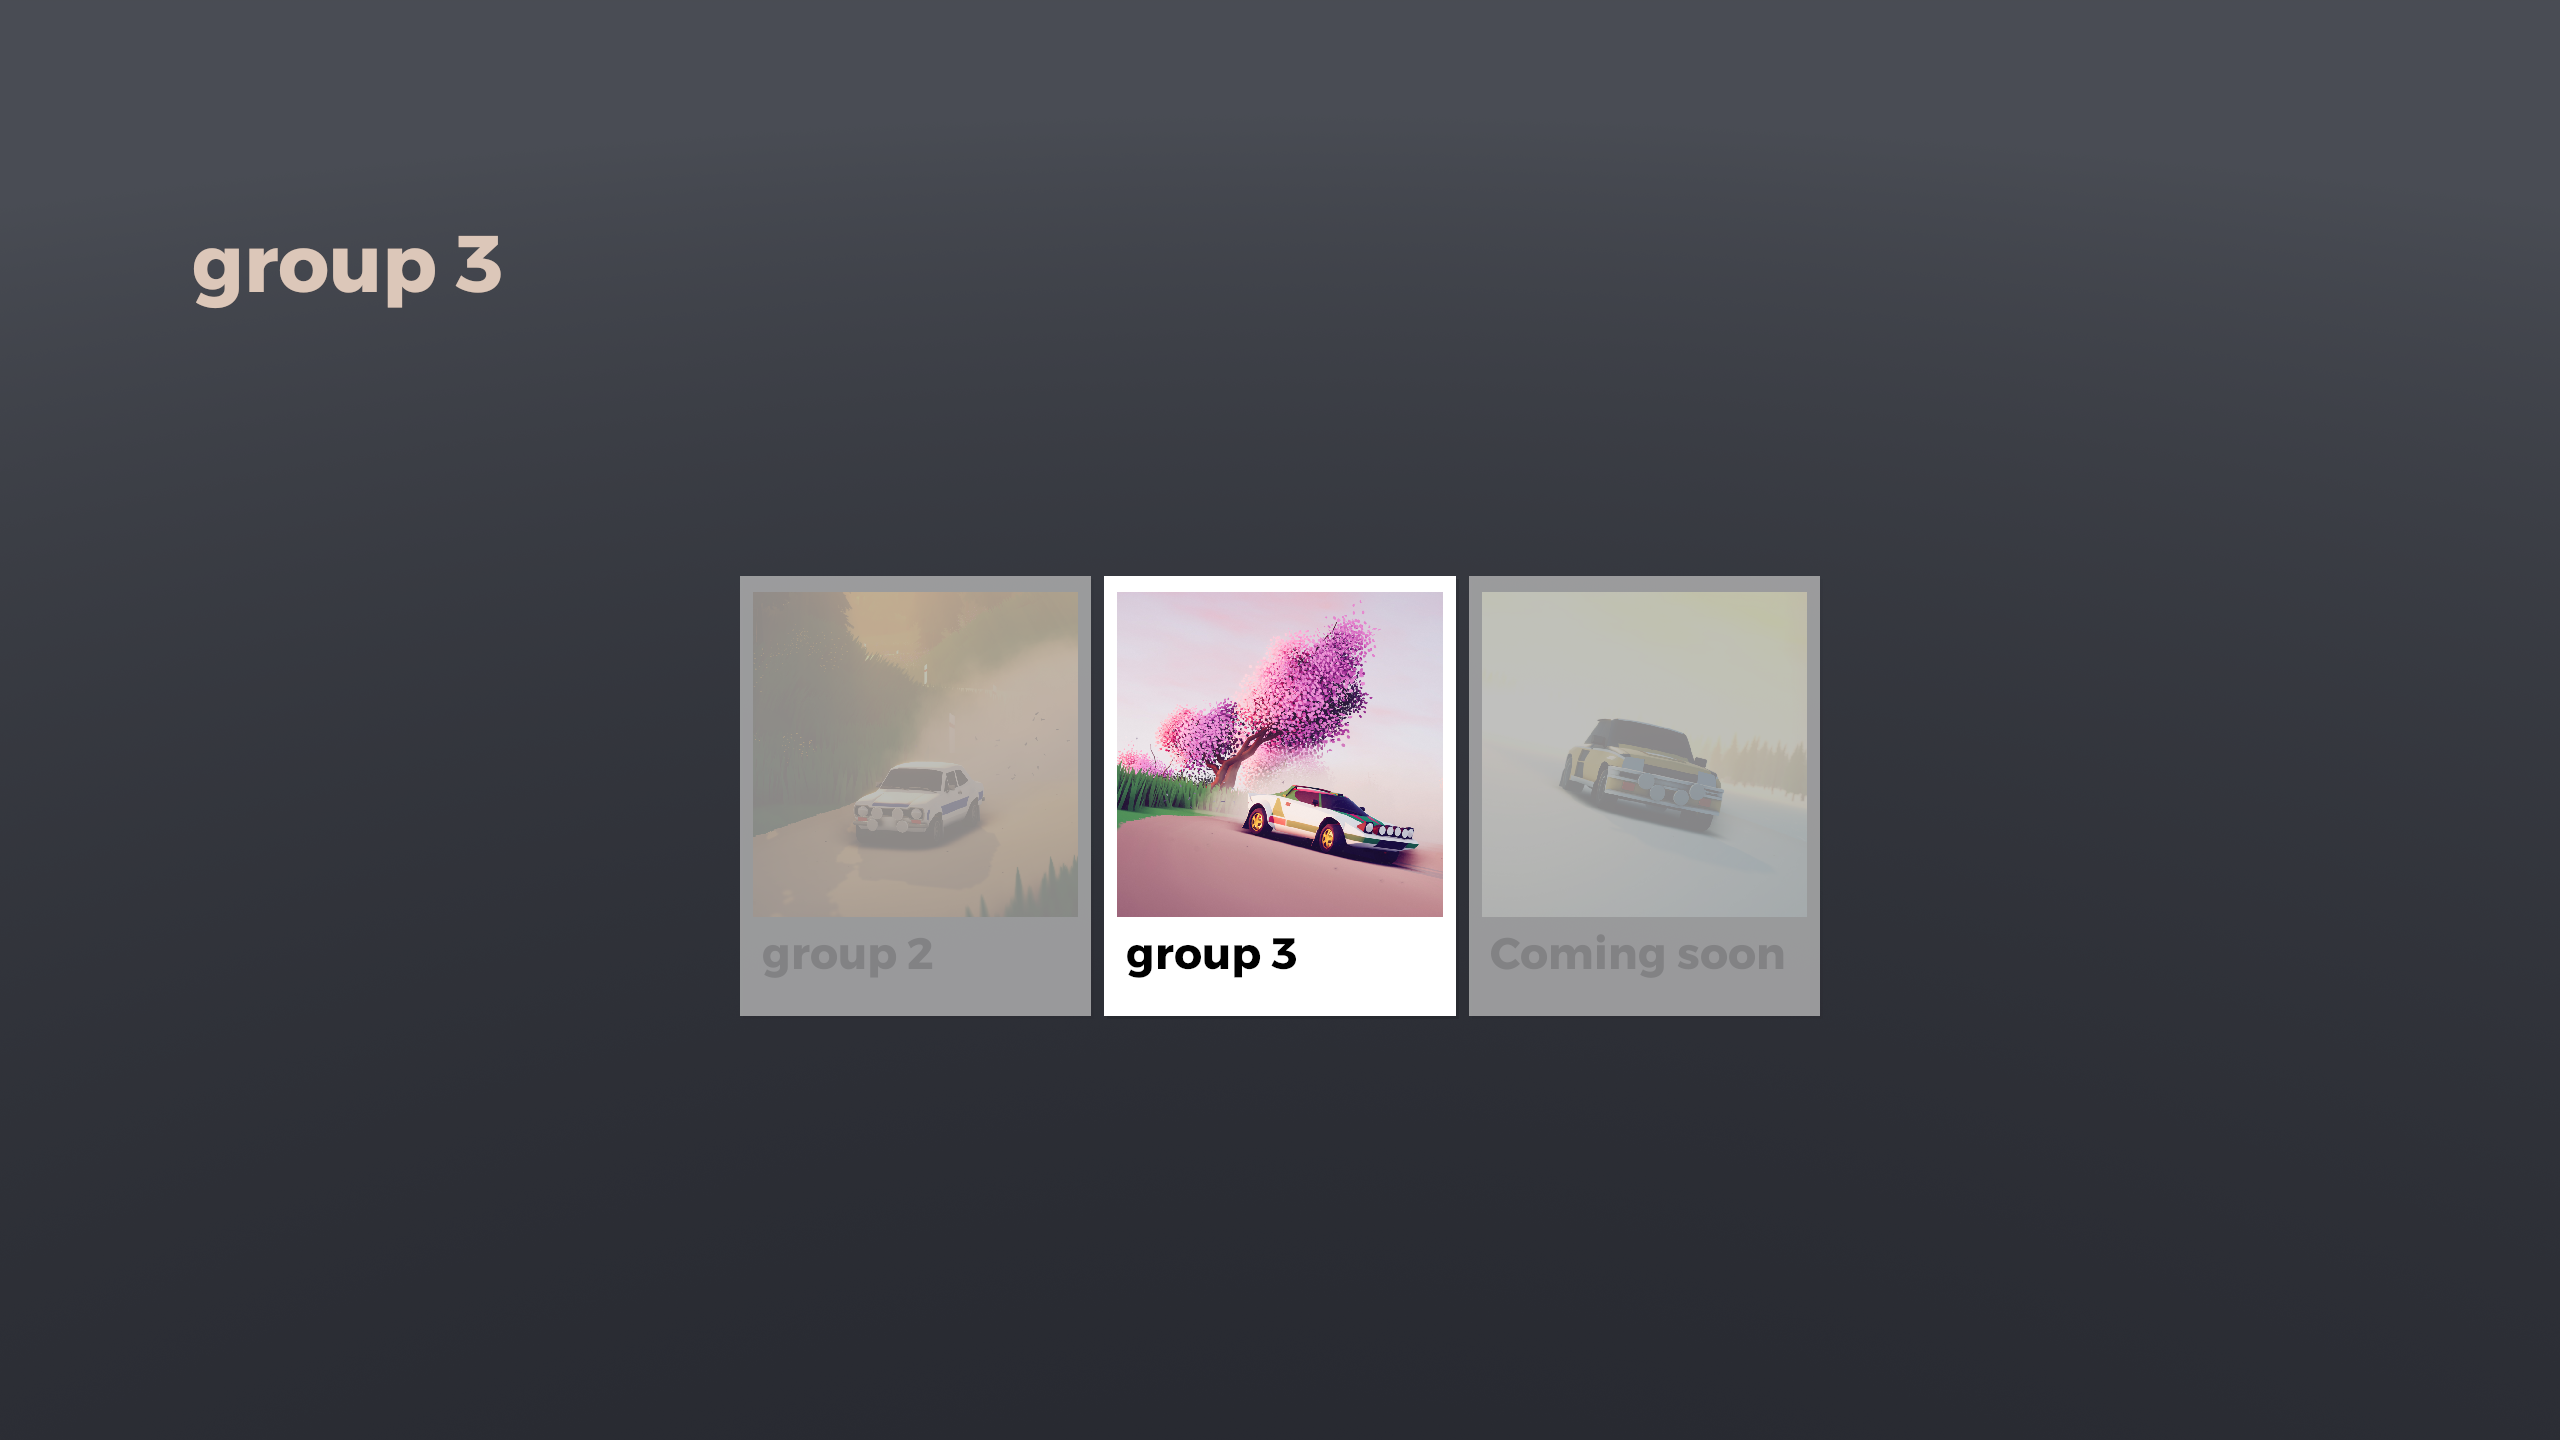
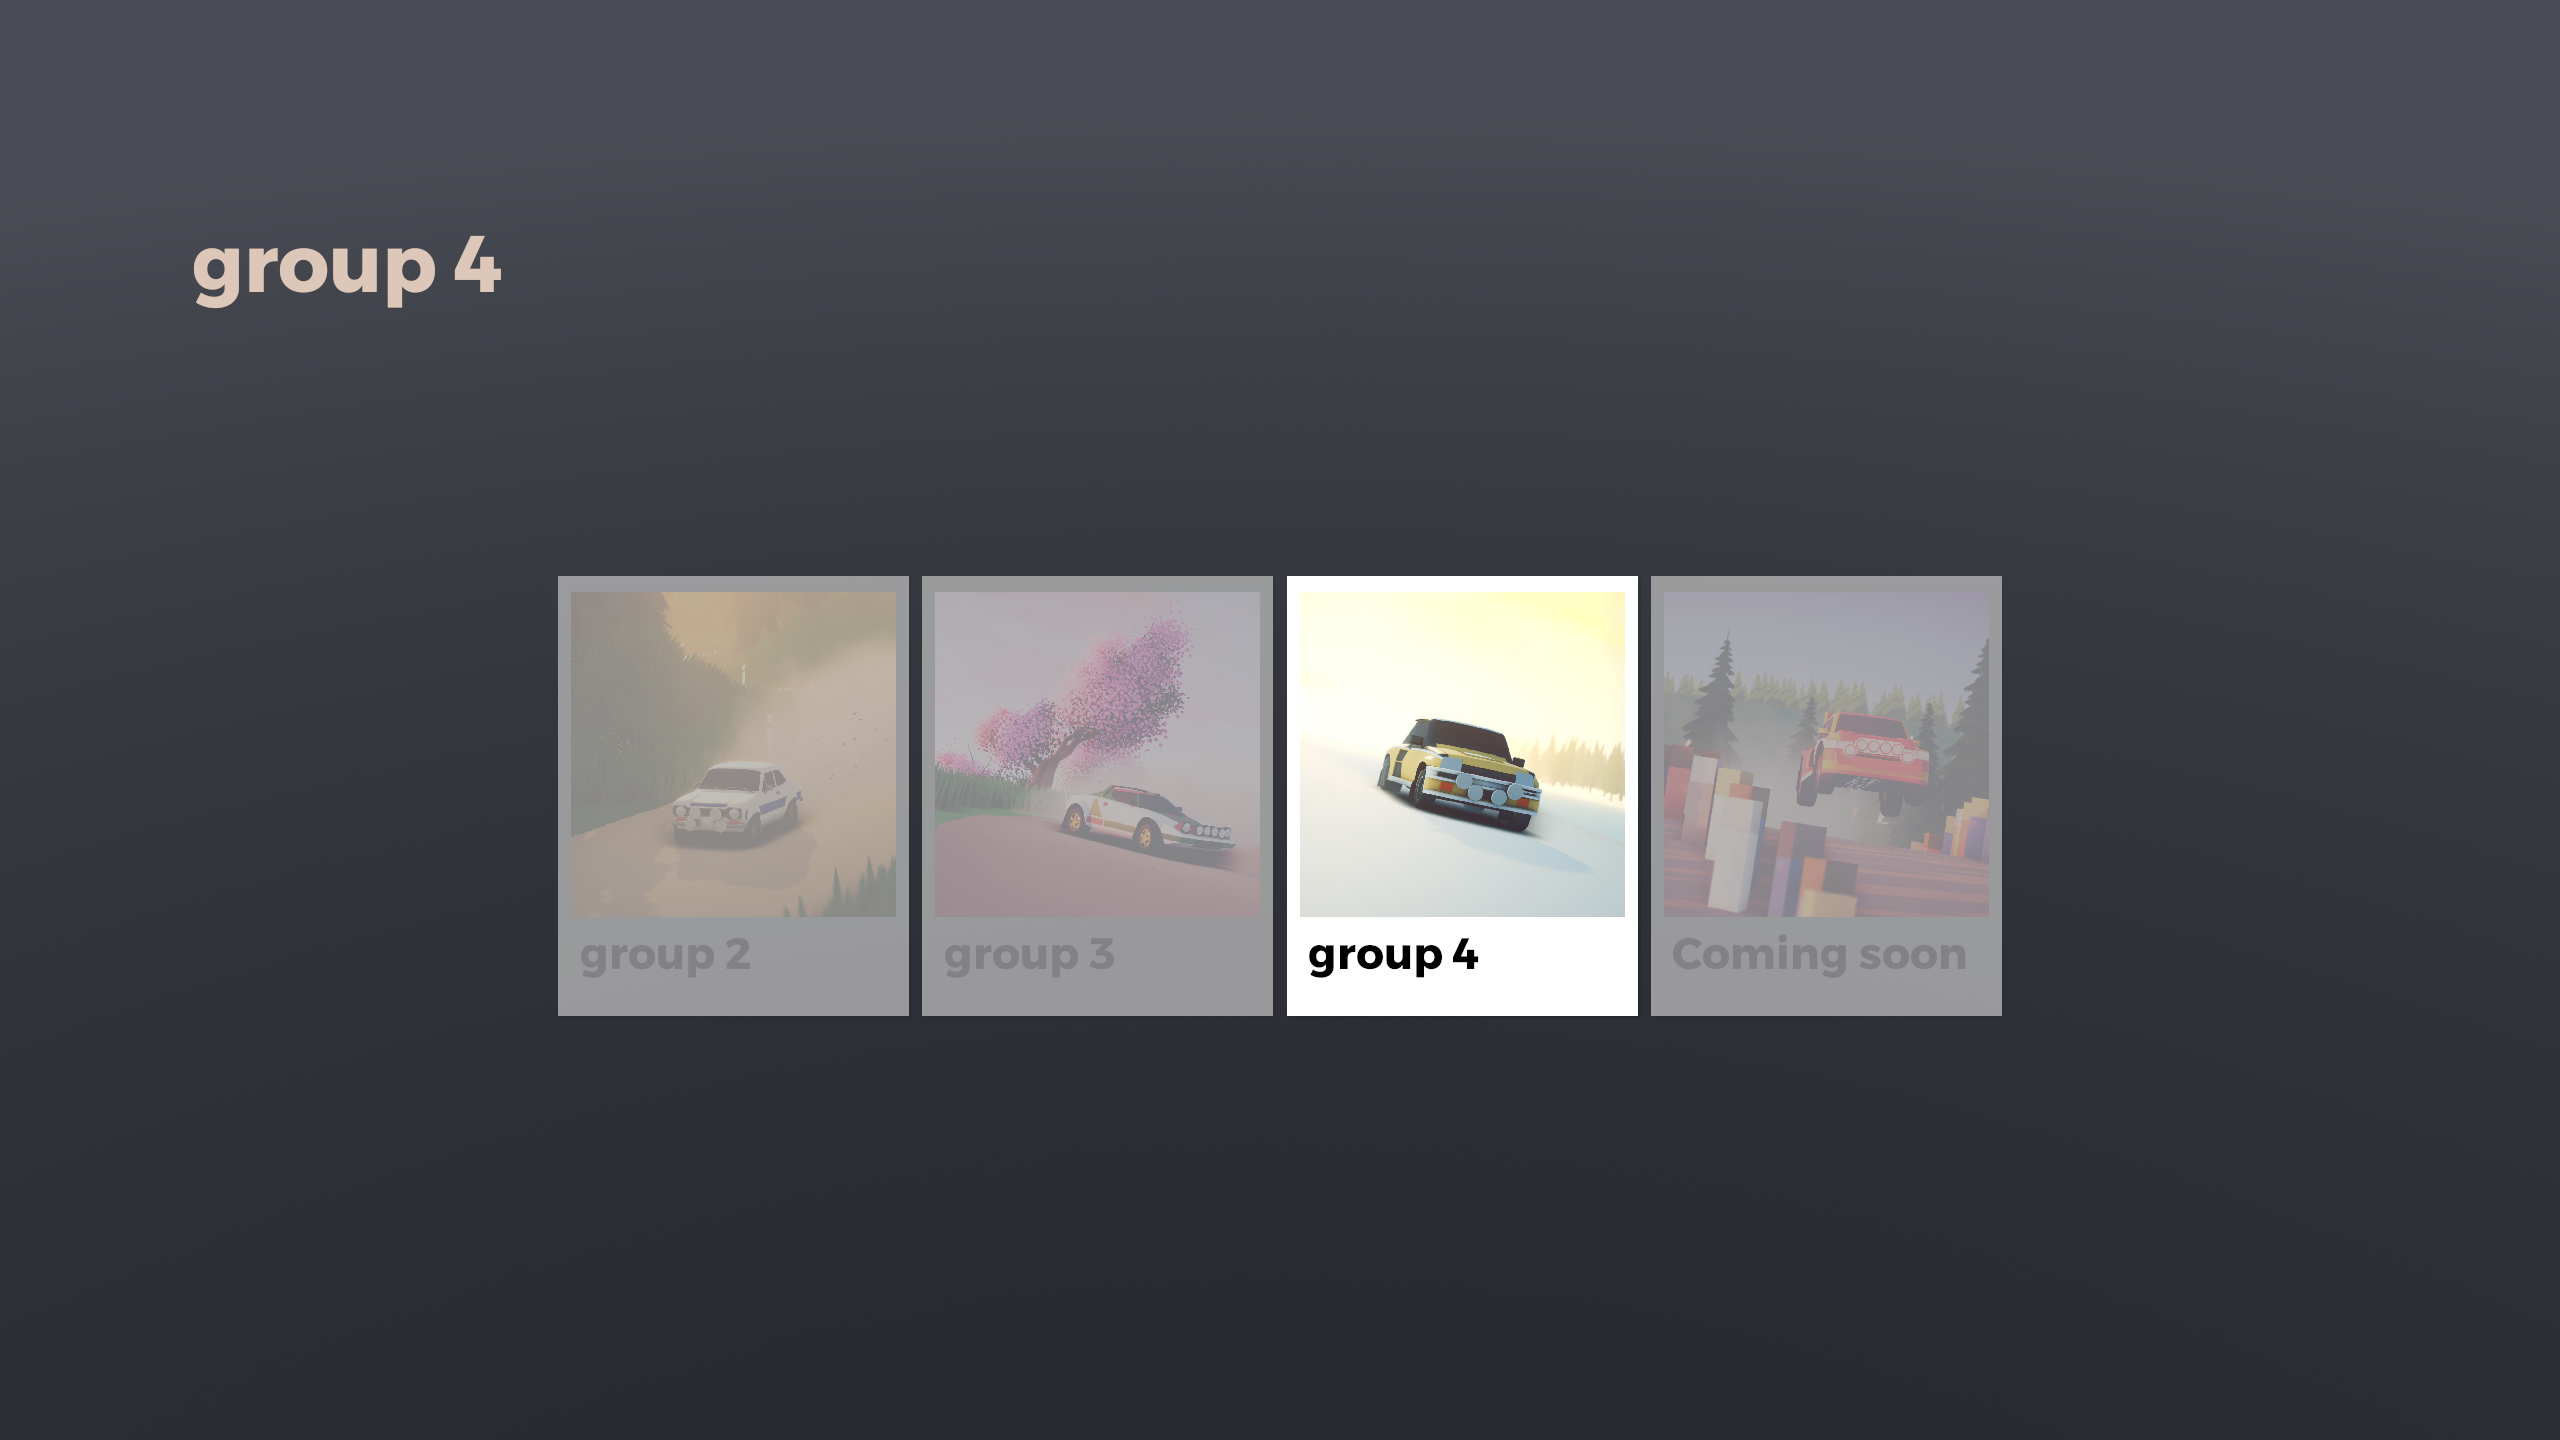
Update info

Changed region(s): [[0.2188, 0.375, 0.7812, 0.7188], [0.1562, 0.1562, 0.2188, 0.2188]]

diff --git a/Readme.md b/Readme.md
@@ -59,5 +59,6 @@ and drop it into the mod manager's mods page.
 ![](Screenshots/Career.png)
 ![](Screenshots/Group%202.png)
 ![](Screenshots/Group%203.png)
+![](Screenshots/Group%204.png)
 ![](Screenshots/Career%20UI.png)
 ![](Screenshots/Settings.png)
